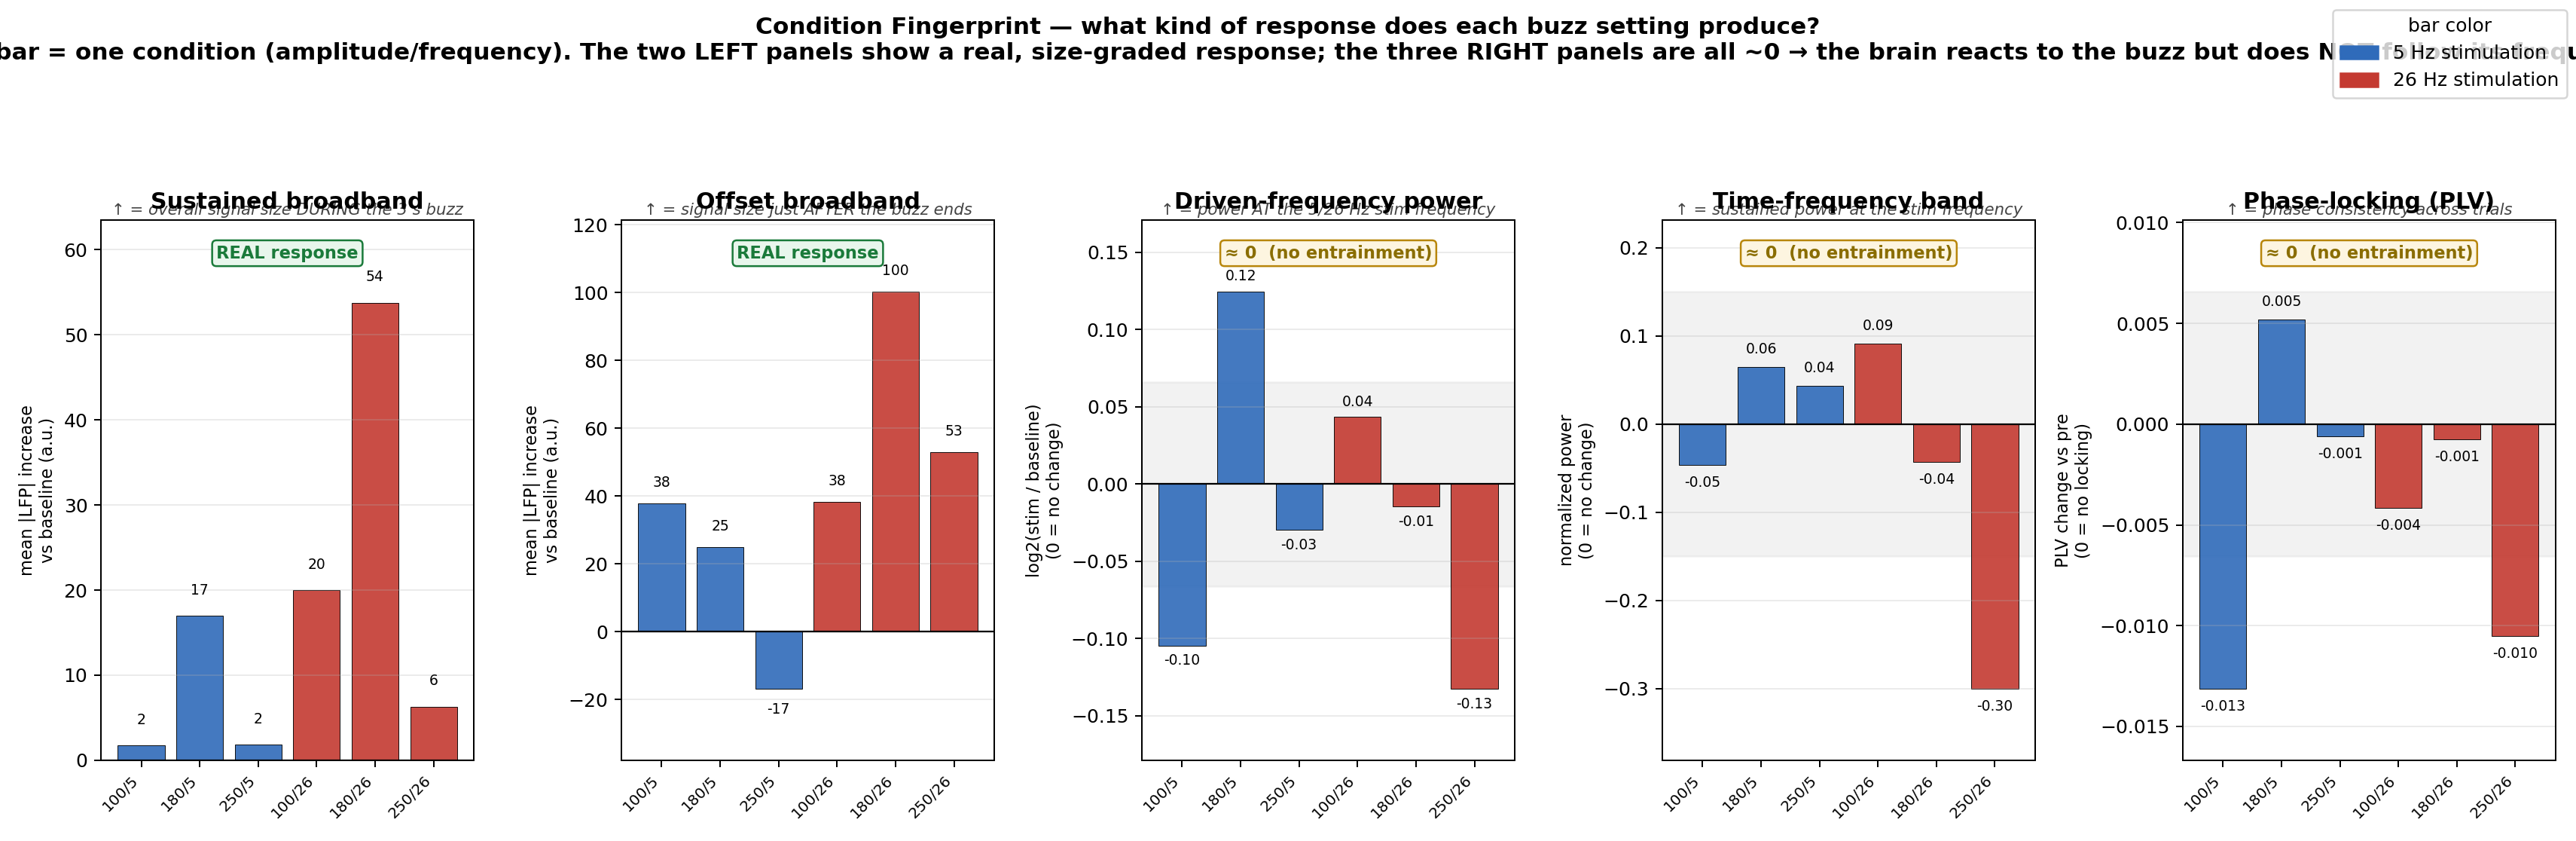
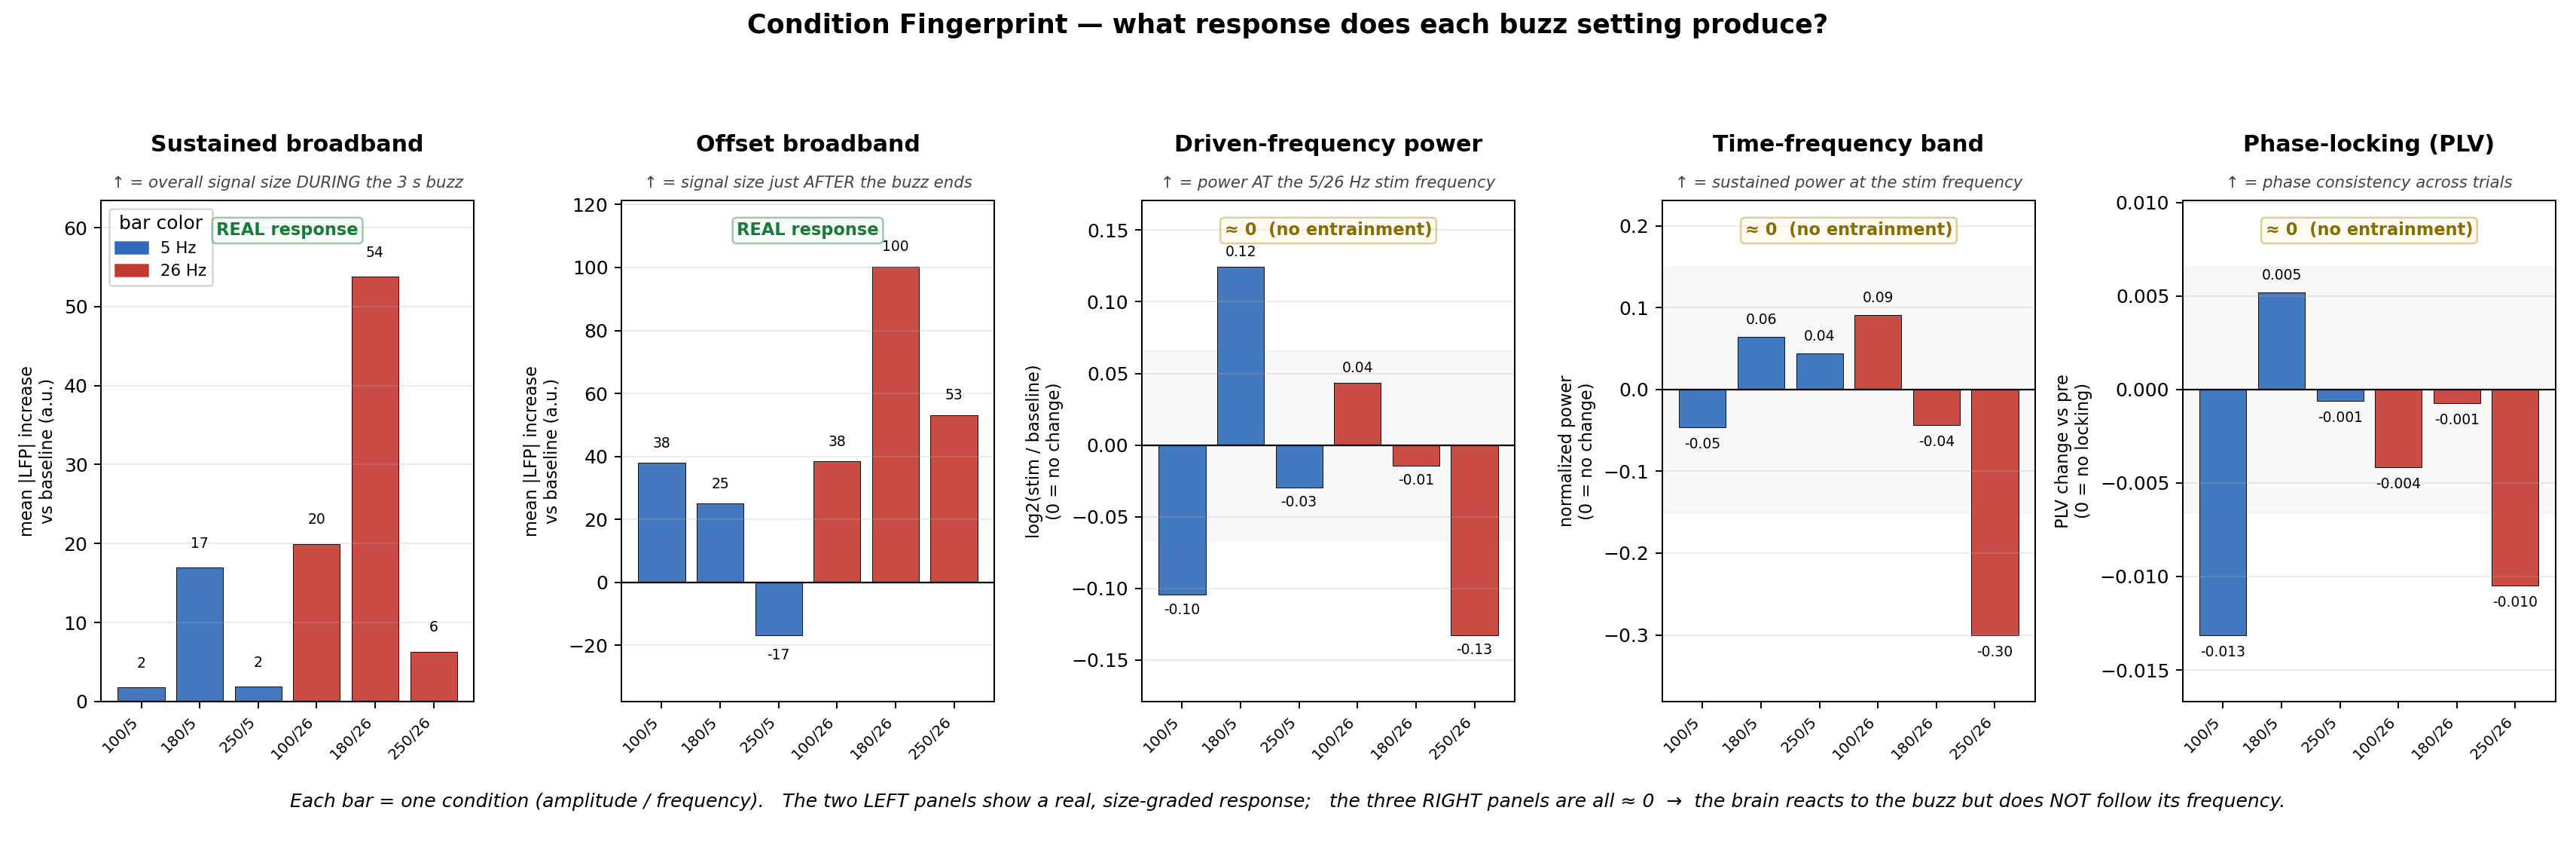
Polish condition_fingerprint layout
- Transparent REAL/≈0 badge fills and lighter zero-band so bars show through.
- Spacing between panel title and the italic "↑ =" caption (title pad).
- Moved color legend inside panel 1 and split the suptitle into a one-line
  title + bottom footer, so nothing overlaps the legend.

diff --git a/analysis/plot_biological_summary_dec3.py b/analysis/plot_biological_summary_dec3.py
@@ -54,8 +54,8 @@ def plot_condition_fingerprint(frame: pd.DataFrame, output: Path) -> None:
         values = frame[metric].to_numpy()
         bars = ax.bar(x, values, color=colors, alpha=0.9, edgecolor="black", linewidth=0.4)
         ax.axhline(0, color="black", linewidth=0.9)
-        ax.set_title(title, fontsize=12, fontweight="bold")
-        ax.text(0.5, 1.005, f"↑ = {updesc}", transform=ax.transAxes, ha="center", va="bottom",
+        ax.set_title(title, fontsize=12, fontweight="bold", pad=26)
+        ax.text(0.5, 1.02, f"↑ = {updesc}", transform=ax.transAxes, ha="center", va="bottom",
                 fontsize=8.5, style="italic", color="#444")
         ax.set_ylabel(unit, fontsize=9)
         ax.set_xticks(x)
@@ -70,23 +70,26 @@ def plot_condition_fingerprint(frame: pd.DataFrame, output: Path) -> None:
         # flag the panels that carry a REAL effect vs the near-zero ones
         if is_real:
             ax.text(0.5, 0.93, "REAL response", transform=ax.transAxes, ha="center", fontsize=9,
-                    fontweight="bold", color="#1a7a3a",
-                    bbox=dict(boxstyle="round,pad=0.25", fc="#e8f6ec", ec="#1a7a3a"))
+                    fontweight="bold", color="#1a7a3a", zorder=6,
+                    bbox=dict(boxstyle="round,pad=0.25", fc="#e8f6ec", ec="#1a7a3a", alpha=0.4))
         else:
-            ax.axhspan(-0.5 * ymax, 0.5 * ymax, color="#bbbbbb", alpha=0.18, zorder=0)
+            ax.axhspan(-0.5 * ymax, 0.5 * ymax, color="#bbbbbb", alpha=0.10, zorder=0)
             ax.text(0.5, 0.93, "≈ 0  (no entrainment)", transform=ax.transAxes, ha="center", fontsize=9,
-                    fontweight="bold", color="#8a6d00",
-                    bbox=dict(boxstyle="round,pad=0.25", fc="#fdf5e0", ec="#b8860b"))
+                    fontweight="bold", color="#8a6d00", zorder=6,
+                    bbox=dict(boxstyle="round,pad=0.25", fc="#fdf5e0", ec="#b8860b", alpha=0.4))
 
     legend_handles = [plt.Rectangle((0, 0), 1, 1, color=COLORS[5]),
                       plt.Rectangle((0, 0), 1, 1, color=COLORS[26])]
-    fig.legend(legend_handles, ["5 Hz stimulation", "26 Hz stimulation"],
-               loc="upper right", fontsize=10, frameon=True, title="bar color")
-    fig.suptitle("Condition Fingerprint — what kind of response does each buzz setting produce?\n"
-                 "Each bar = one condition (amplitude/frequency). The two LEFT panels show a real, size-graded "
-                 "response; the three RIGHT panels are all ~0 → the brain reacts to the buzz but does NOT follow its frequency.",
-                 fontsize=12.5, fontweight="bold")
-    fig.tight_layout(rect=(0, 0, 1, 0.88))
+    # legend inside panel 1 (its bars grow rightward, so the top-left is empty) -> no title overlap
+    axes[0].legend(legend_handles, ["5 Hz", "26 Hz"], loc="upper left", fontsize=8.5,
+                   frameon=True, title="bar color")
+    fig.suptitle("Condition Fingerprint — what response does each buzz setting produce?",
+                 fontsize=14, fontweight="bold", y=0.985)
+    fig.text(0.5, 0.04,
+             "Each bar = one condition (amplitude / frequency).   The two LEFT panels show a real, size-graded response;   "
+             "the three RIGHT panels are all ≈ 0  →  the brain reacts to the buzz but does NOT follow its frequency.",
+             ha="center", fontsize=10, style="italic")
+    fig.tight_layout(rect=(0, 0.07, 1, 0.92))
     fig.savefig(output, dpi=180)
     plt.close(fig)
 